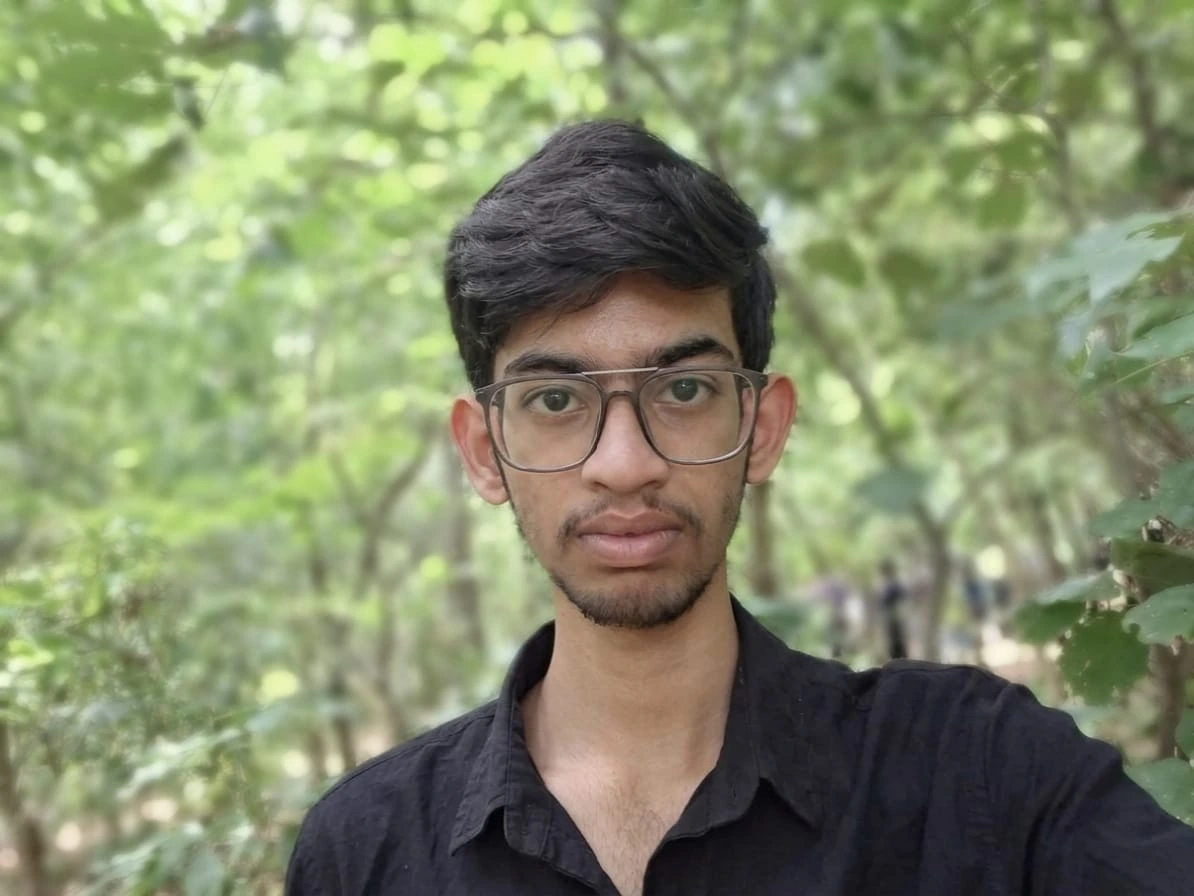
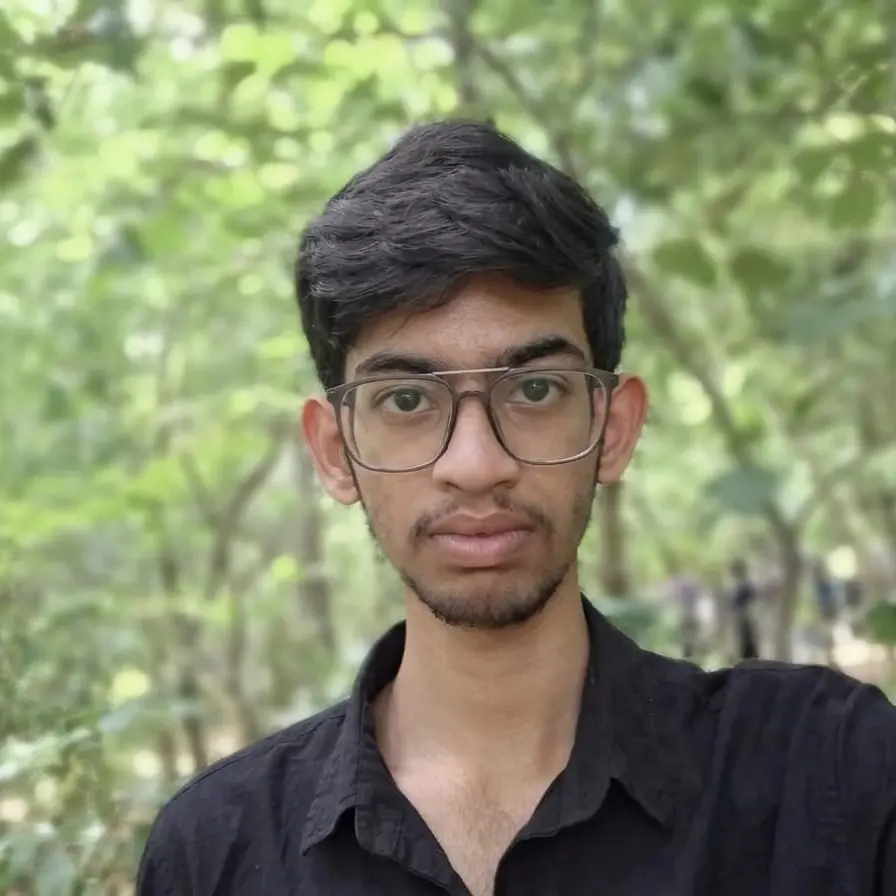
Images are also Changed

diff --git a/Backend/teamData26.js b/Backend/teamData26.js
@@ -41,25 +41,11 @@ const teamData = [
         linkedin:'https://www.linkedin.com/in/milind-thirunahari-?utm_source=share&utm_campaign=share_via&utm_content=profile&utm_medium=android_app'
     },
     {
-        name:'Prof. Mayank Tiwari',
+        name:'Dr. Krishna Sesha Giri',
         role:'Faculty Advisor',
-        image:images['ProfMayankSir.webp'],
-        mail:'mayank@iitpkd.ac.in',
-        linkedin:'https://www.linkedin.com/in/mayank-tiwari-3301268?utm_source=share&utm_campaign=share_via&utm_content=profile&utm_medium=android_app'
-    },
-    {
-        name:'Siddharth Bharti',
-        role:'Mentor',
-        image:images['siddharthBharti2.webp'],
-        mail:'132301033@smail.iitpkd.ac.in',
-        linkedin:'https://www.linkedin.com/in/siddharth-kr-997667249?utm_source=share&utm_campaign=share_via&utm_content=profile&utm_medium=android_app'
-    },
-        {
-        name:'Aryan',
-        role:'Mentor',
-        image:images['Aryan.webp'],
-        mail:'112301041@smail.iitpkd.ac.in',
-        linkedin:'https://www.linkedin.com/in/aryan-b34639288?utm_source=share&utm_campaign=share_via&utm_content=profile&utm_medium=android_app'
+        image:images['Krishna_sir.png'],
+        mail:'krishna.s@iitpkd.ac.in',
+        linkedin:'https://in.linkedin.com/in/krishna-sesha-giri-490a90b4'
     },
     {
         name:'Tanay Vashist',
@@ -76,21 +62,21 @@ const teamData = [
         linkedin:'https://www.linkedin.com/in/aadityadinesh/'
     },
     {
-        name:'Ausula Madhu Charan Chary',
-        role:'Event Coordinator Head',
+        name:'Emmanuel Johnson',
+        role:'Mentor',
+        image:images['Emmanuel_Johnson.webp'],
+        mail:'122401015@smail.iitpkd.ac.in',
+        linkedin:'https://www.linkedin.com/in/emmanuel-johnson-618598332/'
+    },
+    {
+        name:'Madhu Charan Chary',
+        role:'Logistics Head & Media Mentor',
         image:images['MCC.webp'],
         mail:'132401010@smail.iitpkd.ac.in',
         linkedin:'https://www.linkedin.com/in/aashutosh-kr-ray-9b505b312?utm_source=share&utm_campaign=share_via&utm_content=profile&utm_medium=android_app'
     },
     {
-        name:'Mohnish Murugavel',
-        role:'Outreach and Internal Head',
-        image:images['Mohnish_Murugavel.webp'],
-        mail:'142501019@smail.iitpkd.ac.in',
-        linkedin:'https://www.linkedin.com/in/mohnish-murugavel-1b50a73b7/'
-    },
-    {
-        name:'Nampally Apoorva Sai Kaushik',
+        name:'Apoorva Sai Kaushik',
         role:'Event Coordinator',
         image:images['Apoorva_Sai_Kaushik_Nampally.webp'],
         mail:'142501021@smail.iitpkd.ac.in',
@@ -98,17 +84,45 @@ const teamData = [
     },
     {
         name:'Pamu Vedhanth Chandr',
-        role:'Outreach and Internal Head',
+        role:'Outreach and Internal Relations',
         image:images['Vedhanth_Chandr.webp'],
         mail:'112501022@smail.iitpkd.ac.in',
         linkedin:''
     },
     {
-        name:'Emmanuel Johnson',
-        role:'Content Creator & Media Publicity Head',
-        image:images['Emmanuel_Johnson.webp'],
-        mail:'122401015@smail.iitpkd.ac.in',
-        linkedin:'https://www.linkedin.com/in/emmanuel-johnson-618598332/'
+        name:'Sai Kiran',
+        role:'Tech Mentor',
+        image:images['Sai_Kiran.webp'],
+        mail:'142401034@smail.iitpkd.ac.in',
+        linkedin:'https://www.linkedin.com/in/aashutosh-kr-ray-9b505b312?utm_source=share&utm_campaign=share_via&utm_content=profile&utm_medium=android_app'
+    },
+    {
+        name:'Mohnish Murugavel',
+        role:'Outreach and Internal Relations & Tech',
+        image:images['Mohnish_Murugavel.webp'],
+        mail:'142501019@smail.iitpkd.ac.in',
+        linkedin:'https://www.linkedin.com/in/mohnish-murugavel-1b50a73b7/'
+    },
+    {
+        name:'Ridhwiman Gayen',
+        role:'Tech',
+        image:images['Ridhwiman_Gayen.webp'],
+        mail:'122601036@smail.iitpkd.ac.in',
+        linkedin:'https://www.linkedin.com/in/ridhwiman-gayen-ab0640425/'
+    },
+    {
+        name:'Devidyuti K Pisharody',
+        role:'Media',
+        image:images['Devidyuti_K_Pisharody.webp'],
+        mail:'122601013@smail.iitpkd.ac.in',
+        linkedin:'https://www.linkedin.com/in/devidyuti-k-pisharody-10b88341a/'
+    },
+    {
+        name:'Ishaan Singh',
+        role:'Media',
+        image:images['Ishaan_Singh.webp'],
+        mail:'142601017@smail.iitpkd.ac.in',
+        linkedin:'https://www.linkedin.com/search/results/all/?keywords=Ishaan%20Singh&origin=HISTORY&position=0'
     }
 ]
 
